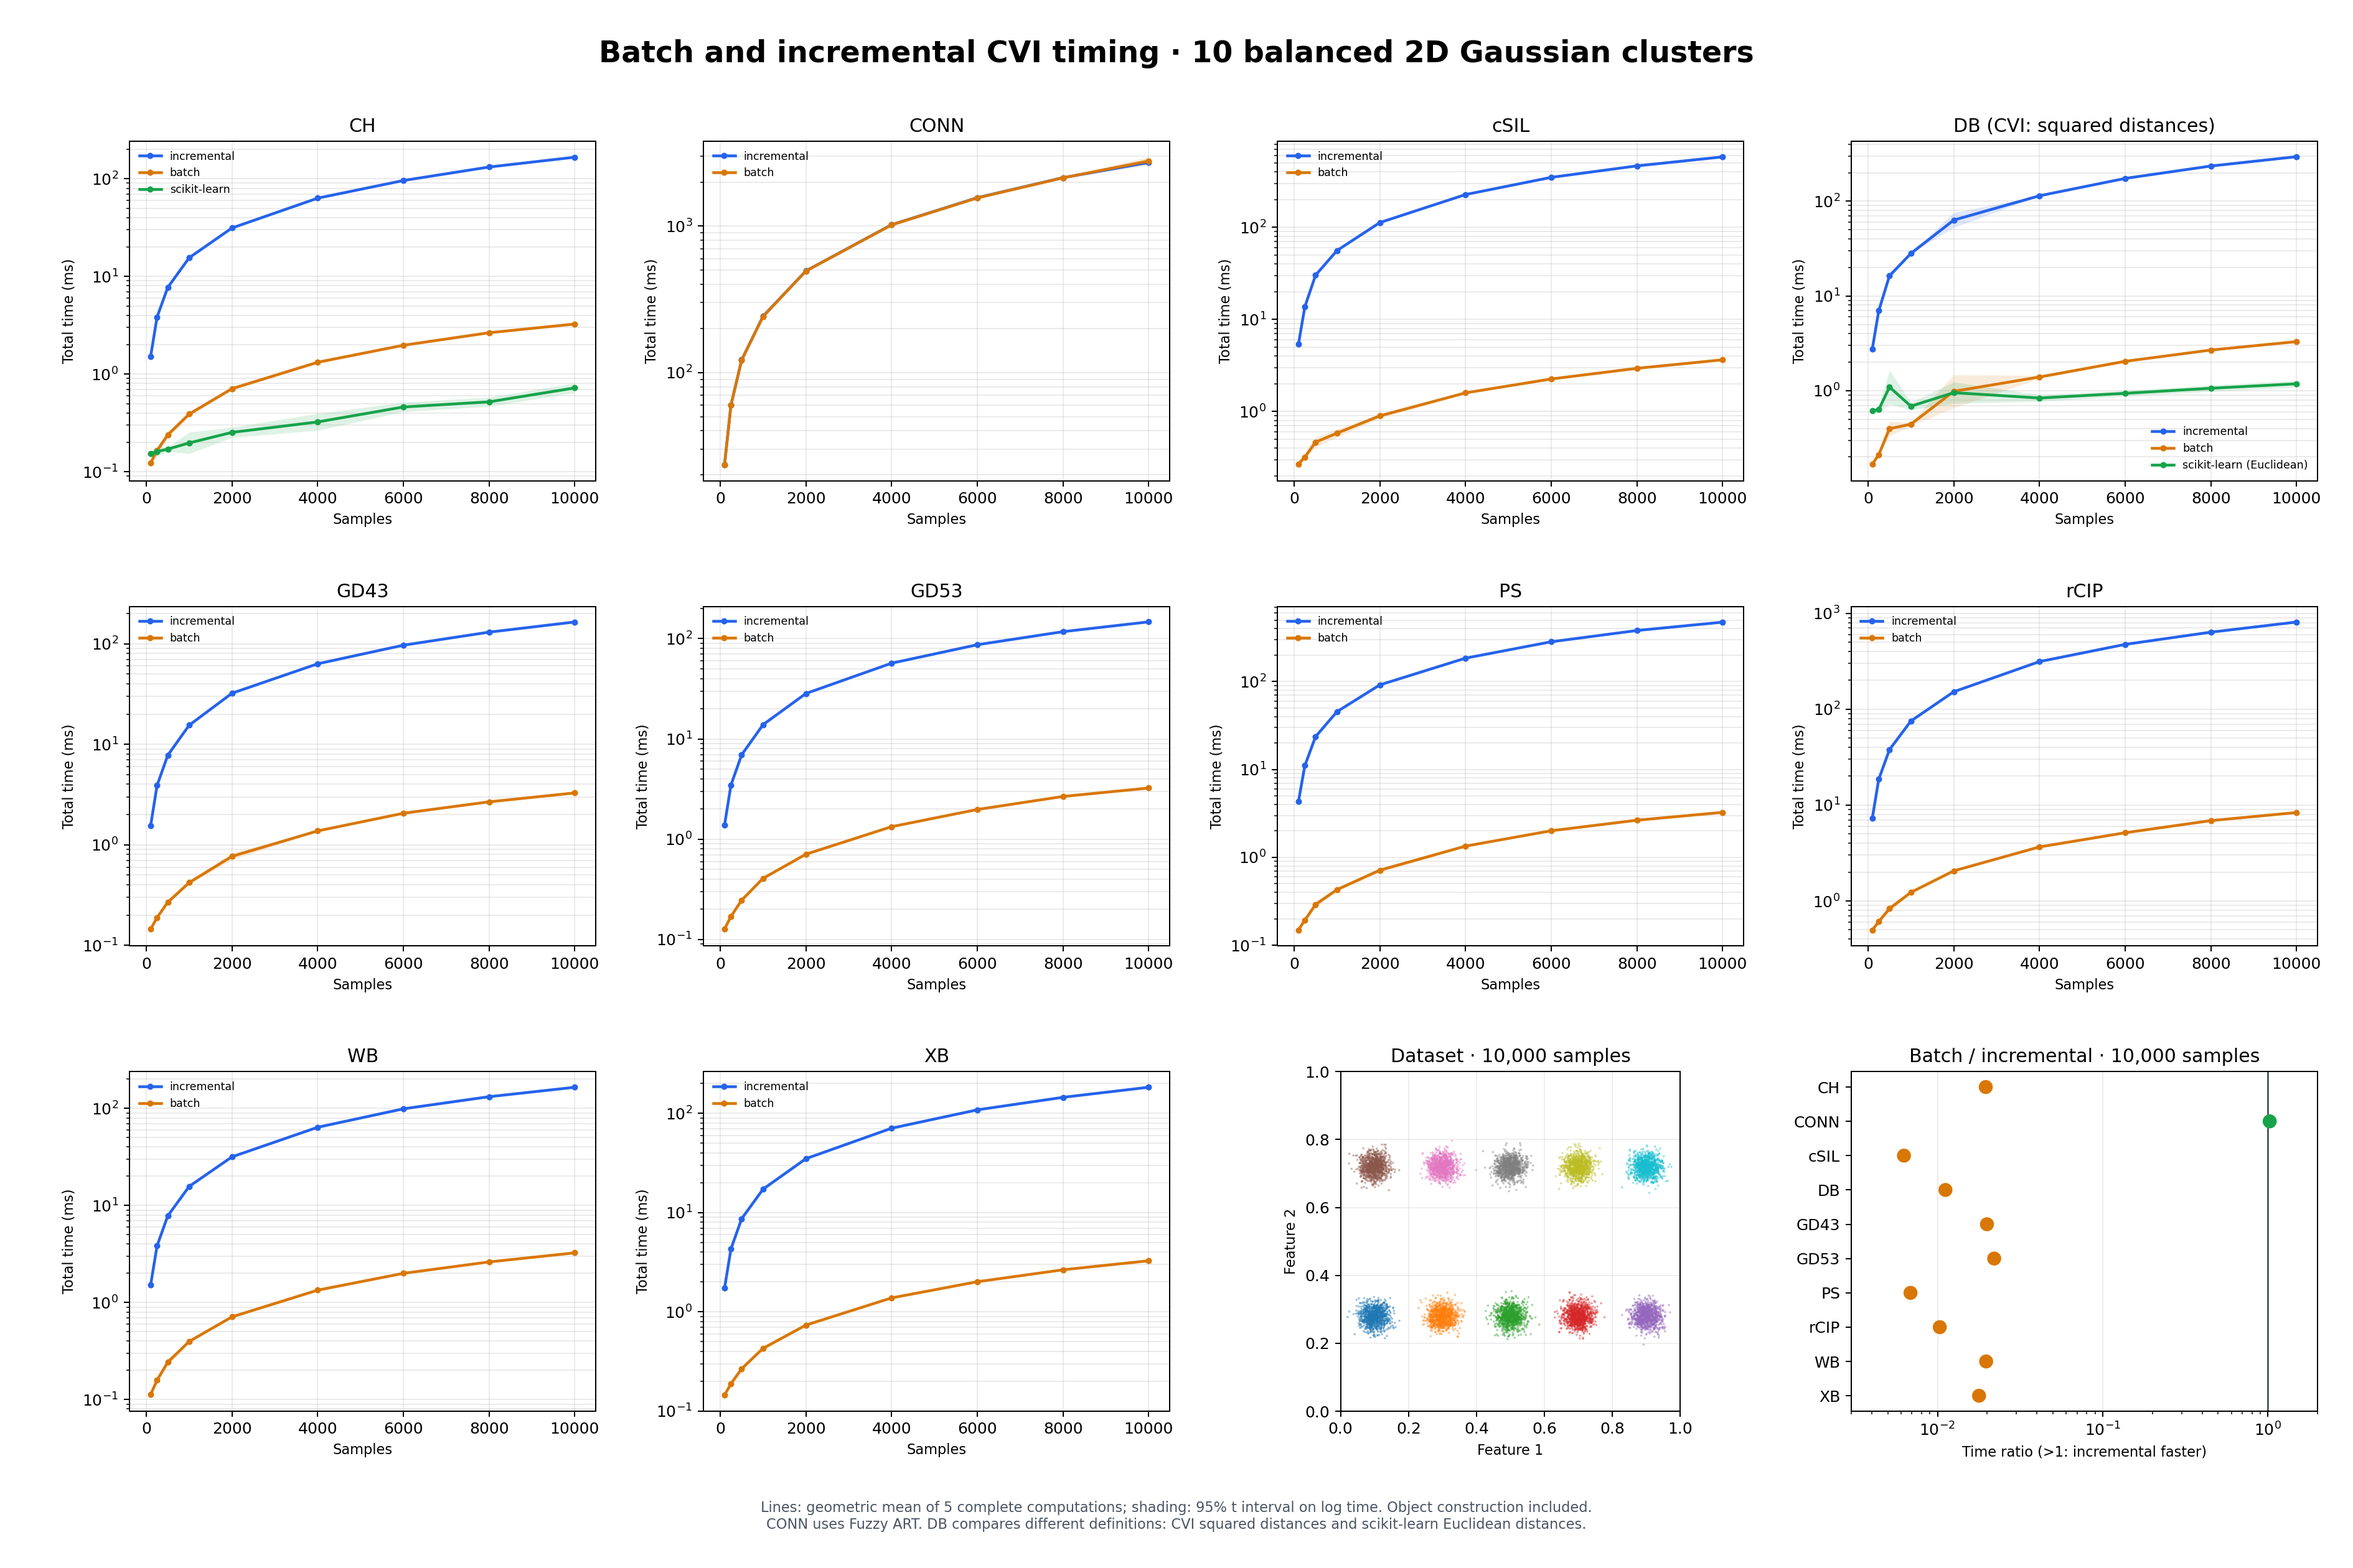
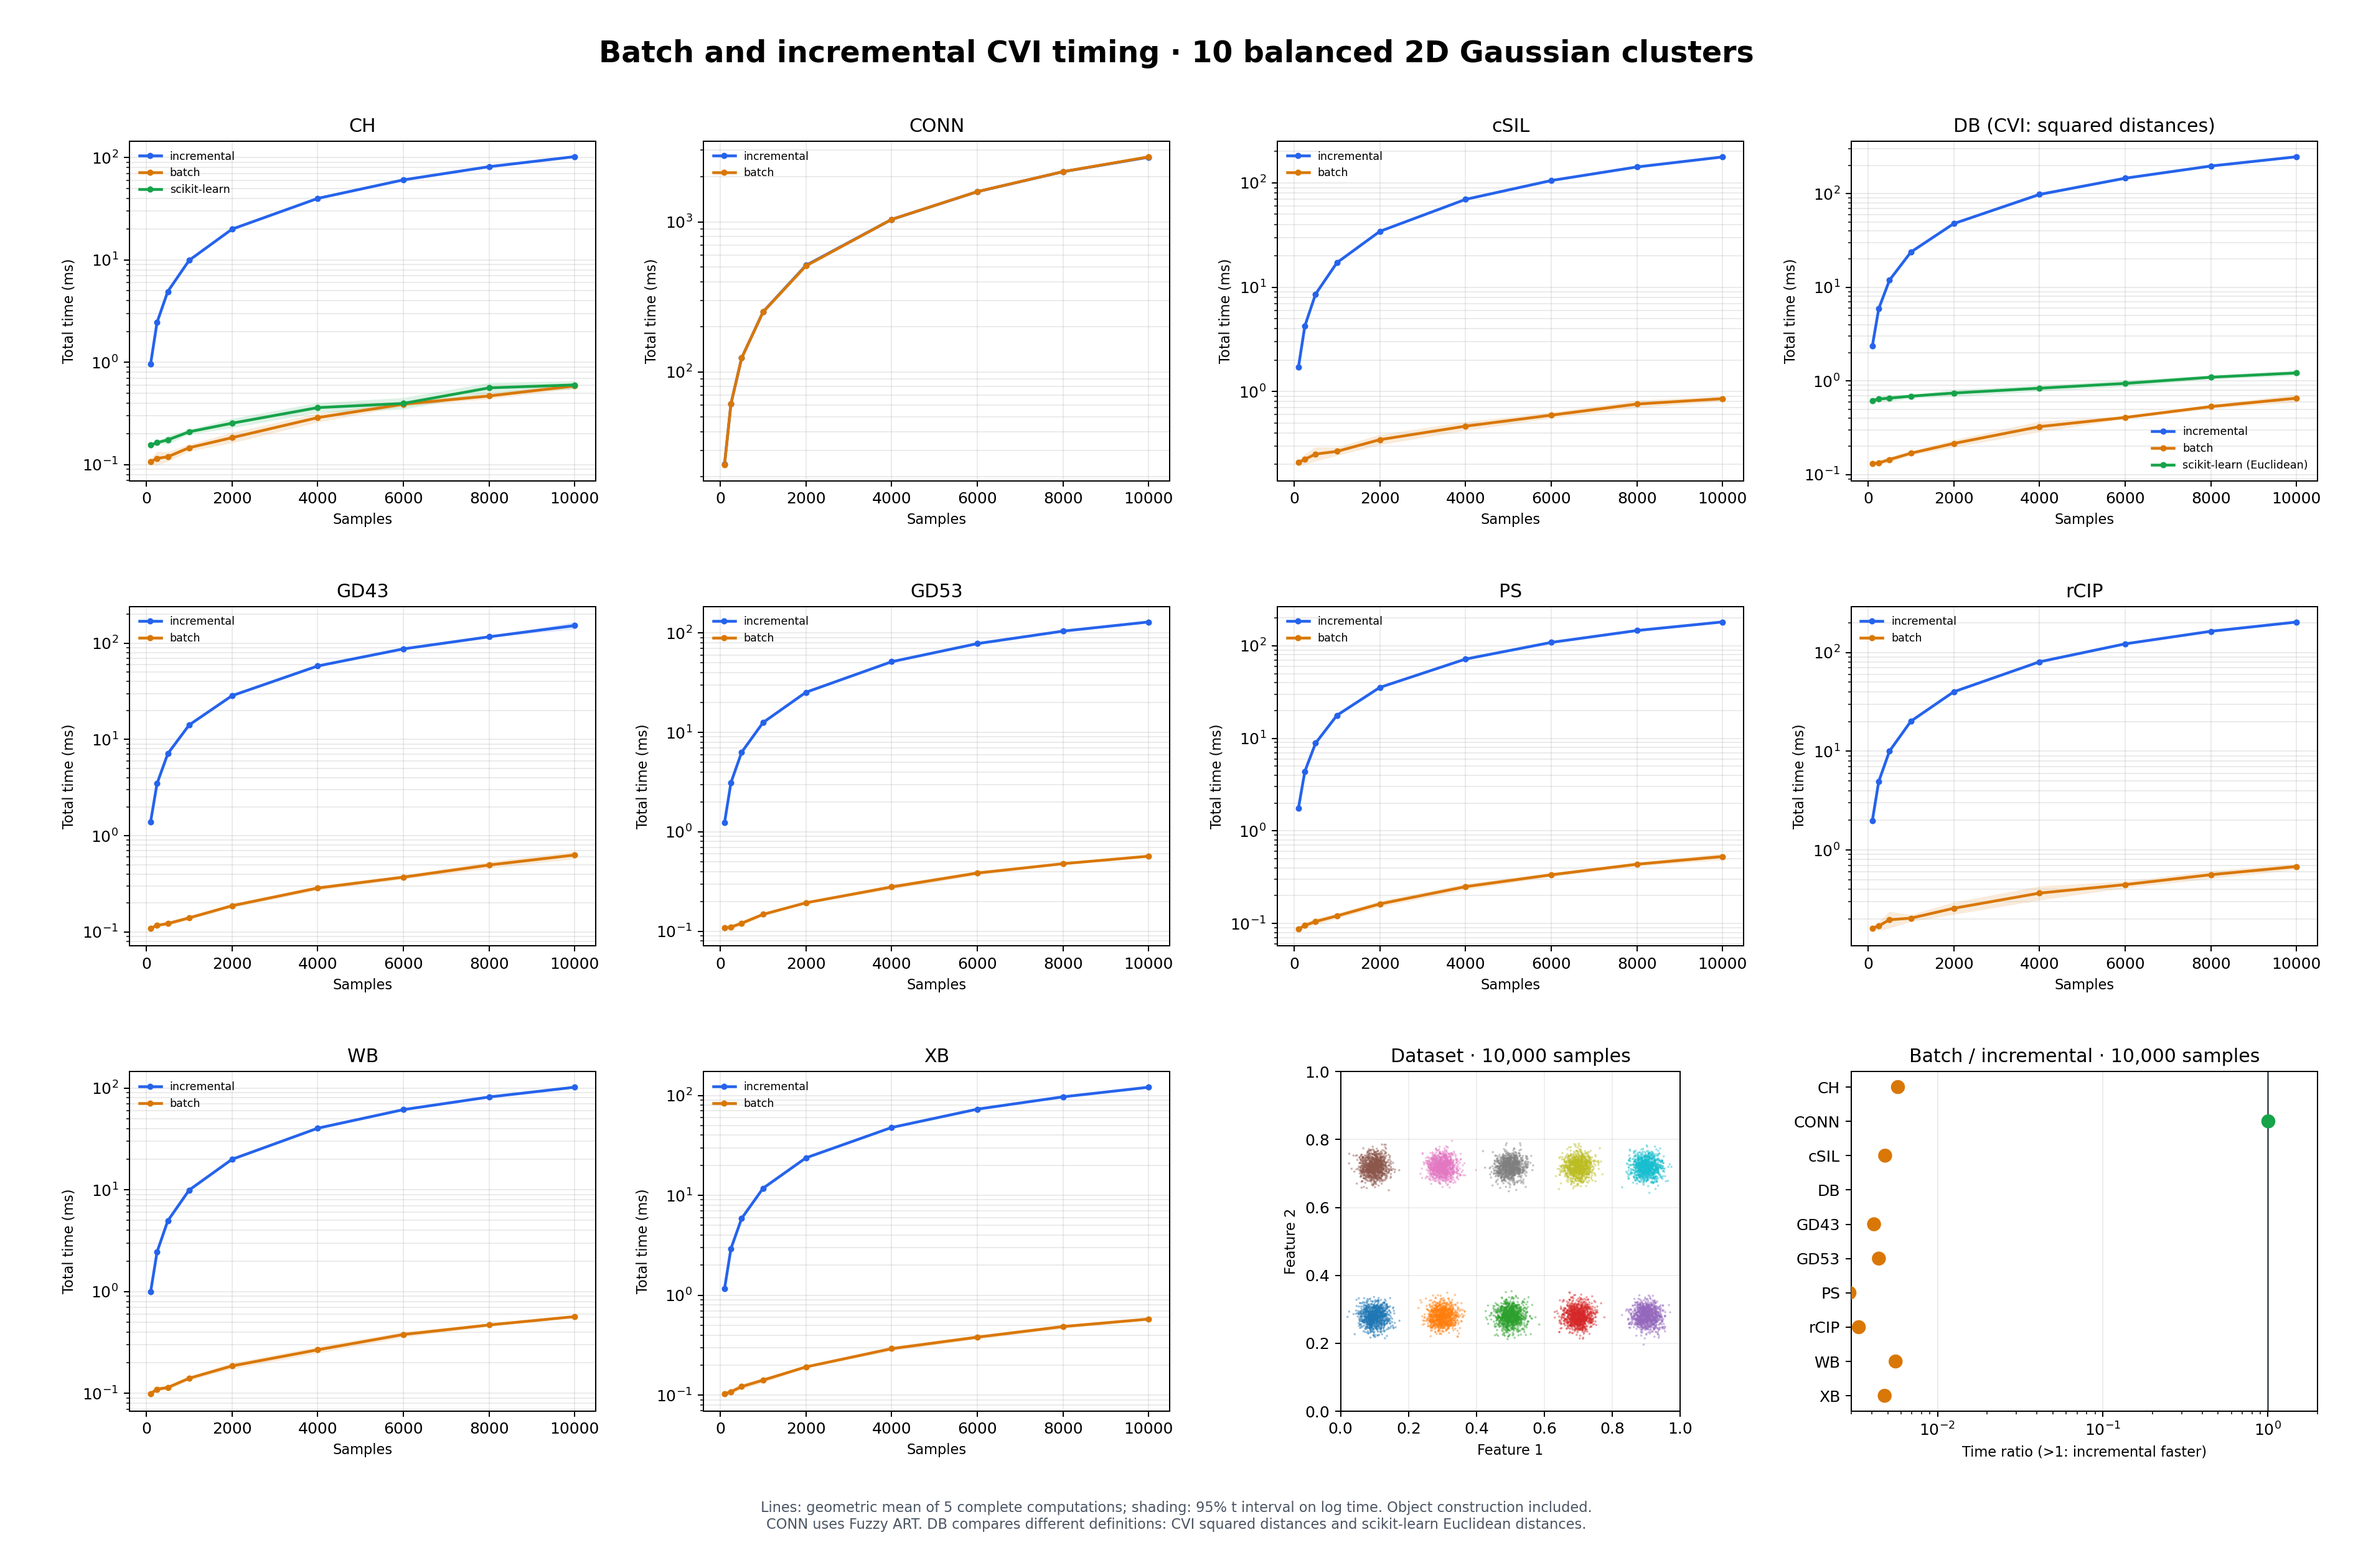
Refresh optimized CVI timing figure

diff --git a/benchmarks/README.md b/benchmarks/README.md
@@ -1,5 +1,36 @@
 # Numerical kernel benchmarks
 
+## Batch versus incremental timing figure
+
+Generate a 12-panel figure for all ten public CVIs, a scatter plot of the
+synthetic dataset, and a final-size timing ratio summary:
+
+```sh
+OPENBLAS_NUM_THREADS=1 python3 -m benchmarks.benchmark_batch_incremental
+```
+
+This needs Matplotlib and `artlib` (the optional ART extra). It writes
+`benchmarks/results/batch_incremental/timing_figure.png`, `timings.csv`, and
+`run.json`; `benchmarks/results/index.json` points to the run record. The
+dataset has ten balanced, well-separated 2D Gaussian clusters. Every plotted
+size is a prefix of the same 10,000 samples, from 100 to 10,000. CONN uses
+Fuzzy ART for both paths with a shared pre-normalized input; its default
+KMeans path cannot update one sample at a time. CH and DB include their
+scikit-learn score functions. **The DB definitions differ:** this package uses
+mean squared within-cluster distances and squared centroid distances, whereas
+scikit-learn uses mean Euclidean within-cluster distances and Euclidean centroid
+distances. Its DB curve is a related reference, not an equivalent implementation.
+The centroid-based cSIL differs from
+scikit-learn's sample silhouette score, so that is not plotted as an equivalent.
+
+Each point is the geometric mean of five complete computations on a fresh
+object, including construction and final scoring. Shading shows a two-sided
+95% Student t interval computed from the five log timings. These intervals
+describe timing variation under this run's conditions; five trials do not
+eliminate machine-load effects. Raw times and scores are in the CSV.
+
+## Kernel and backend timings
+
 Run from the repository root with the project's dependencies installed:
 
 ```sh
@@ -43,8 +74,33 @@ The NumPy implementation groups dense internal labels once and preserves the
 original order of samples within each cluster. Means retain NumPy's original
 input-dtype reduction followed by assignment into float64 centroid storage.
 Centered compactness, appendable count/compactness lists, and first-seen external
-label order are preserved. Distances use coordinate differences, avoiding Gram
-matrix cancellation, and only require one row's temporary distance data.
+label order are preserved. The NumPy backend computes centroid distances with
+SciPy's compiled direct-coordinate kernels, avoiding Gram-matrix cancellation;
+the optional Numba backend retains its compiled loop.
+
+Integer batch labels use one stable sort to validate, encode, and group samples
+while restoring first-appearance label order. Other label dtypes retain the
+dictionary path. DB evaluates distinct
+cluster pairs with array operations in the same evaluator used by batch and
+incremental calls. Its squared-distance definition, zero diagonal, and
+undefined-score handling are preserved.
+
+CH and WB use the same centroid-distance kernel for separation after batch,
+incremental, and structural updates. GD53 builds its dispersion matrix and
+large updated rows with array operations, retaining the cheaper scalar loop for
+fewer than 64 clusters, and uses the shared off-diagonal minimum reduction when
+scoring. PS computes centroid spread, nearest-cluster
+distances, and per-cluster terms as arrays in its shared evaluator.
+
+cSIL computes changed dissimilarity rows and columns with array operations and
+evaluates all cluster coefficients in one reduction. Structural rebuilds use
+the same raw-moment definition in matrix form. rCIP groups batch samples once
+and evaluates covariance pairs in bounded vectorized chunks; streaming reuses
+the same pair evaluator for the changed row. It retains the existing explicit
+inverse and determinant definition so the optimization does not also change the
+numerical method. XB and GD43 share an off-diagonal minimum reduction that
+temporarily masks and then restores the distance-matrix diagonal, avoiding new
+triangle indices or a full mask for every score.
 
 cSIL batch mode retains its raw moments for subsequent add/remove/merge operations
 but computes its dissimilarity matrix using centered statistics. For cluster
